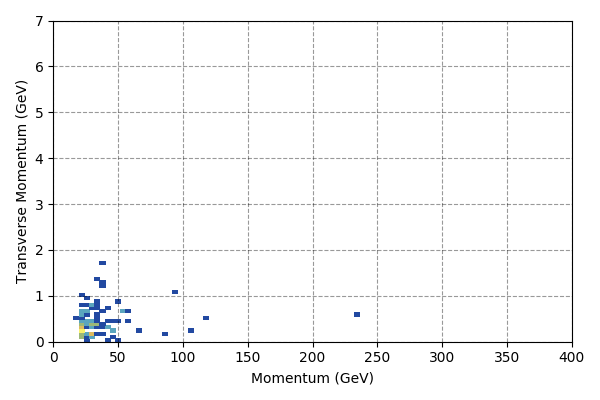
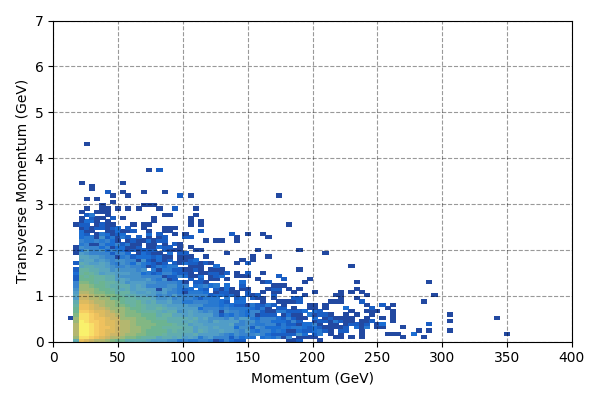
tune

diff --git a/Tune_auxiliary_inputs.py b/Tune_auxiliary_inputs.py
@@ -24,25 +24,36 @@ from SHiP_GAN_module import muGAN
 muGAN = muGAN()
 ########################################################################################################################################################
 
-muGAN.tune(size=int(1E7), 
-	output_folder='Tuning_results',
-	training_data_location='/mnt/storage/scratch/am13743/real_data.npy')
+# muGAN.tune(size=int(1E7), 
+	# output_folder='Tuning_results',
+	# training_data_location='/mnt/storage/scratch/am13743/real_data.npy')
 
-# muGAN.tune(size=int(1E2), 
-# 	output_folder='Tuning_results',
-# 	training_data_location='/Users/am13743/Desktop/Data_for_GAN_paper_plots/real_data.npy')
+initial_values = np.empty((4,7))
 
-# initial_values = np.empty((4,7))
+initial_values[0] = [ 1, 0.1, 0.8, 0, 0, 0, 0] # x y
+initial_values[1] = [ 0, 0, 0, 0.0005, 1.2, 1E-3, 0.27] # z 
+initial_values[2] = [ 0, 0, 0, 0.005, 1.3, 1E-3, 0.12] # px py
+initial_values[3] = [ 0, 0, 0, 0.003, 1.1, 0, 0.2] # pz
 
-# initial_values[0] = [ 1, 0.1, 0.8, 0, 0, 0, 0] # x y
-# initial_values[1] = [ 0, 0, 0, 0.0005, 1.2, 1E-3, 0.27] # z 
-# initial_values[2] = [ 0, 0, 0, 0.001, 1.2, 1E-3, 0.12] # px py
-# initial_values[3] = [ 0, 0, 0, 0.003, 1.2, 0, 0.2] # pz
+# np.save('SHiP_GAN_module/data_files/tuned_aux_parameters.npy',initial_values)
+# quit()
 
 
 # muGAN.tune(size=int(1E5), initial_values=initial_values, 
 # 	output_folder='Tuning_results',
-# 	training_data_location='/mnt/storage/scratch/am13743/real_data.npy')
+# 	training_data_location='/Users/am13743/Desktop/Data_for_GAN_paper_plots/real_data.npy')
+
+
+muGAN.tune(size=int(1E6), initial_values=initial_values, 
+	output_folder='Tuning_results',
+	training_data_location='/mnt/storage/scratch/am13743/real_data.npy')
+
+
+
+
+
+
+
 
 
 

diff --git a/SHiP_GAN_module/muGAN.py b/SHiP_GAN_module/muGAN.py
@@ -160,17 +160,18 @@ class muGAN:
 			aux_values[:,i] = np.take(aux_values[:,i],np.random.permutation(aux_values[:,i].shape[0]),axis=0,out=aux_values[:,i])
 		
 
-		# from scipy.linalg import cholesky
+		from scipy.linalg import cholesky
 
-		# r = np.array([
-		# 		        [ 1,  0,  0,  0],
-		# 		        [ 0,  1,  0,  0],
-		# 		        [ 0,  0,  1,  0],
-		# 		        [ 0,  0,  0,  1]
-		# 		    ])
-		# c = cholesky(r, lower=True)
+		r = np.array([
+				        [ 1,  0,  0,  0],
+				        [ 0,  1,  0,  0],
+				        [ 0,  0,  1,  0],
+				        [ 0,  0,  0.1,  1]
+				    ])
+		c = cholesky(r, lower=True)
 
-		# aux_values = np.swapaxes(np.dot(c, np.swapaxes(aux_values,0,1)),0,1)
+
+		aux_values[np.where(aux_values[:,2]>2)][:int((np.shape(np.where(aux_values[:,2]>2))[0]*0.5))] = np.swapaxes(np.dot(c, np.swapaxes(aux_values[np.where(aux_values[:,2]>2)][:int((np.shape(np.where(aux_values[:,2]>2))[0]*0.5))],0,1)),0,1)
 
 		return aux_values
 
